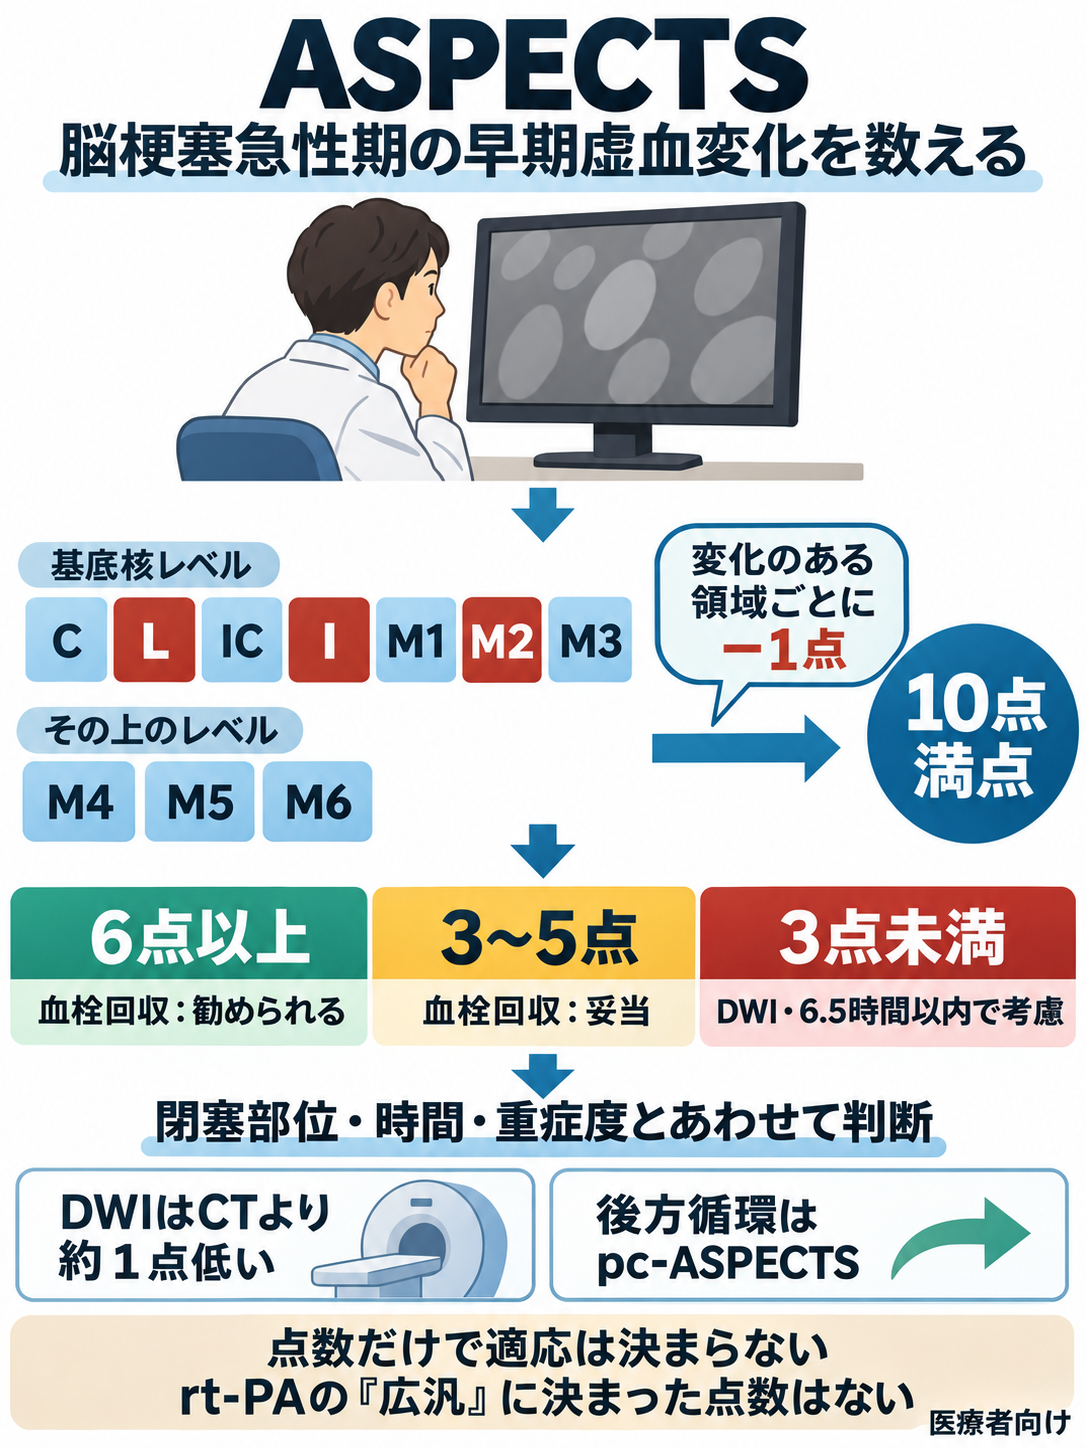
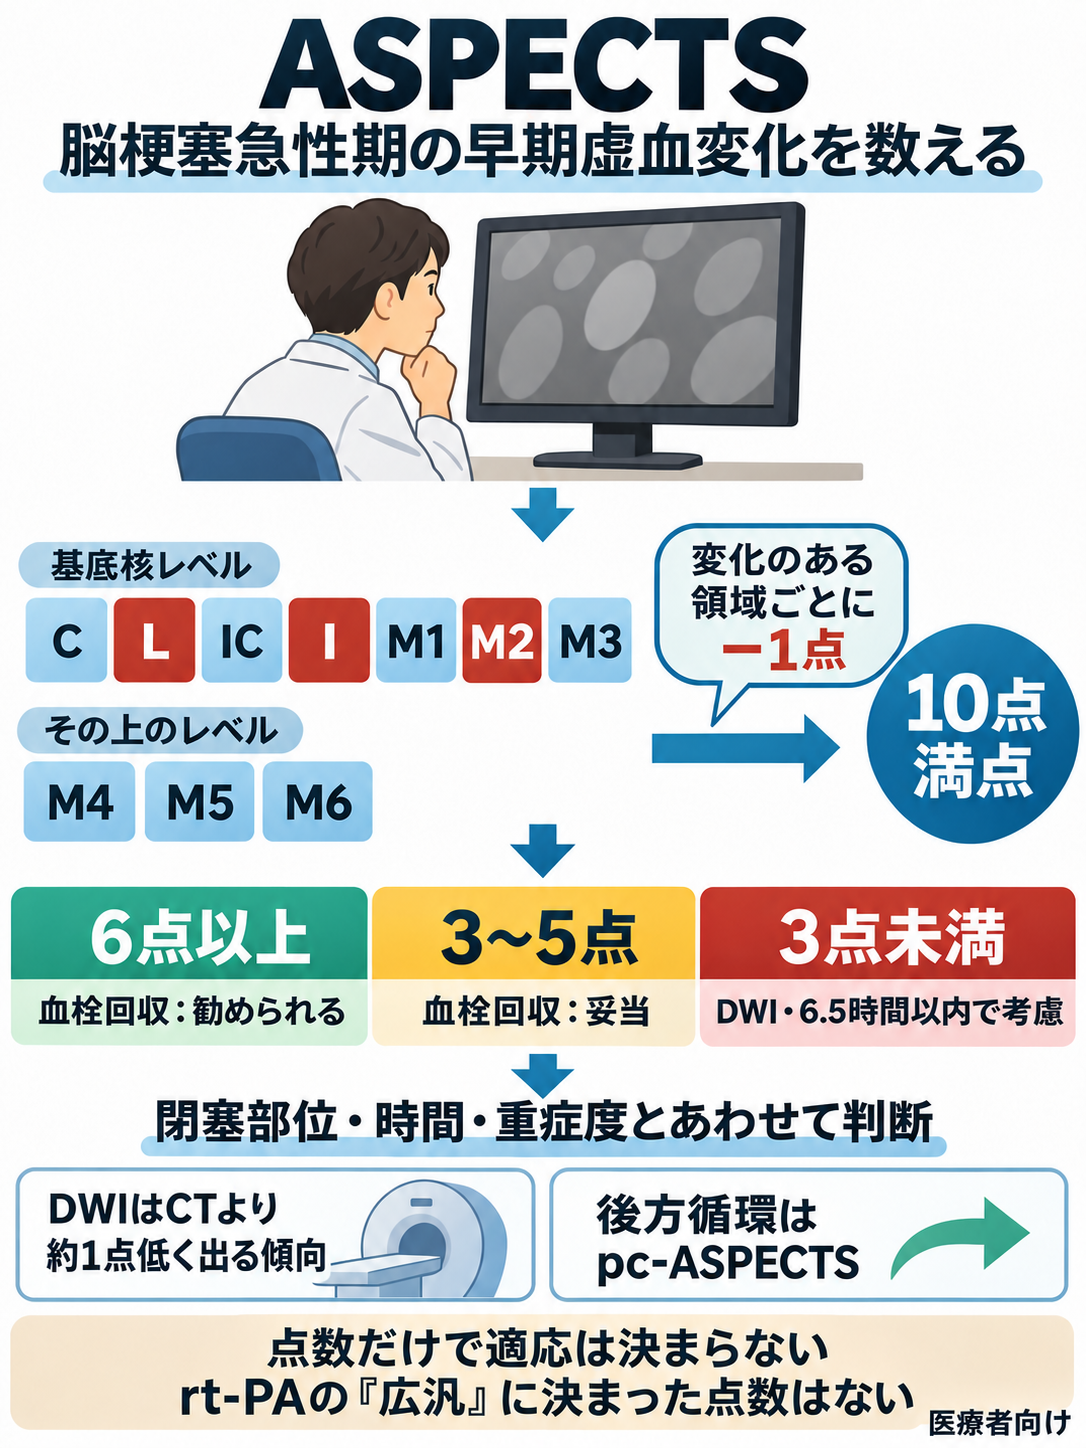
feat(aspects): 解説記事の挿絵・模式図3枚を追加し、インフォの DWI の札を「傾向」に直す（sw.js v391）

diff --git a/sw.js b/sw.js
@@ -1,4 +1,4 @@
-const CACHE_NAME = 'ddx-tools-v390';
+const CACHE_NAME = 'ddx-tools-v391';
 const ASSETS = [
   './facial_palsy_assessment.html',
   './infographics/facial-palsy-differential/index.html',
